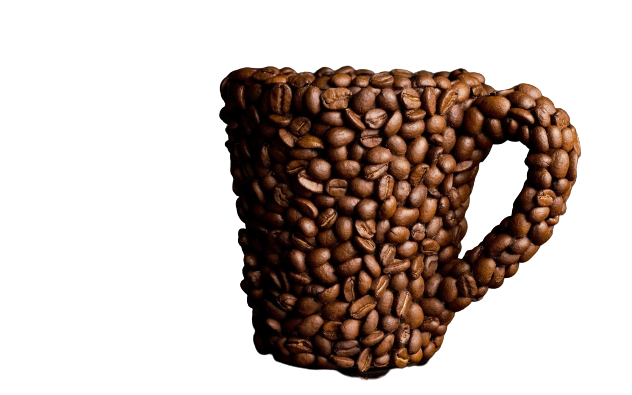
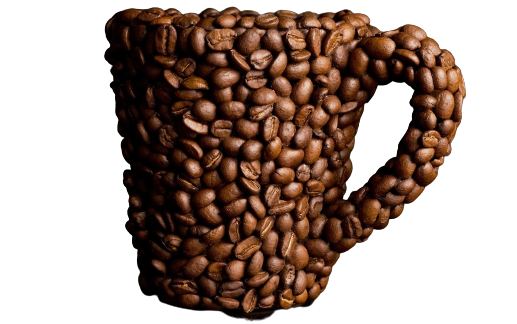
new changea

diff --git a/main/coffee.html b/main/coffee.html
@@ -19,8 +19,14 @@
             </div>
         </header>
         <main>
-         <img src="../images/coffeebeans-cup.png" alt="">
-        </main>
+        <div class="words">
+            <h1>ZAKI COFFEE</h1>
+            <h3>Greater Tastes ,Refreshing Moments , Adventurous Greatness.</h3>
+        </div>
+        <div class="image">
+         <img src="../images/coffee_mint.png" alt="">
+        </div>
+    </main>
     </section>
 
 <script>

diff --git a/main/coffee.css b/main/coffee.css
@@ -60,3 +60,27 @@
     }
 
   }
+
+  .words{
+    float: left;
+    width: 55%;
+    margin-top: 200px;
+  }
+
+  .words h1{
+    font-size: 100px;
+  }
+  .words h3{
+    font-size: 50px;
+    font-family: Harrington;
+  }
+
+  .image{
+    float: right;
+    width: 45%;
+  }
+
+  img{
+    height: 600px;
+    width:600px;
+  }
